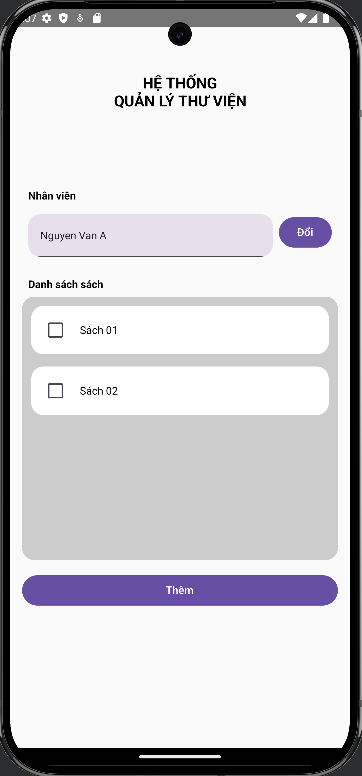
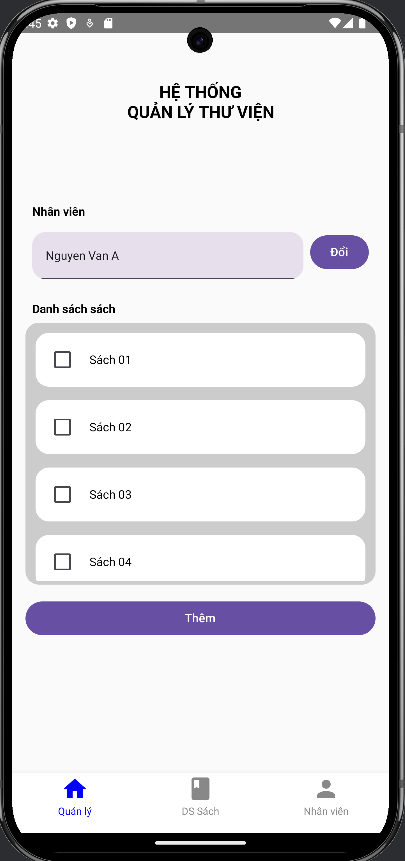
Initial commit

Changed region(s): [[0.0, 0.0, 1.0, 1.0], [0.3039, 0.0928, 0.6989, 0.1546], [0.7597, 0.2474, 0.9116, 0.3402]]

diff --git a/README.md b/README.md
@@ -9,10 +9,11 @@
   
 ## Câu 2:
 - Tạo data class book để chứa thông tin sách.
+- Dùng BottomNavigation để tạo thanh tabbar.
 - Dùng LazyColumn để hiển thị danh sách sách.
 - Hiện DiaLog chứa thông tin sách khi nhấn vào sách.
 ## Hình ảnh mô tả cho câu 2: 
 - Giao diện ứng dụng:  
-![img_1.png](img_1.png)  
+![img_1.png](img_1.png)
 - DiaLog:  
 ![img_2.png](img_2.png)
